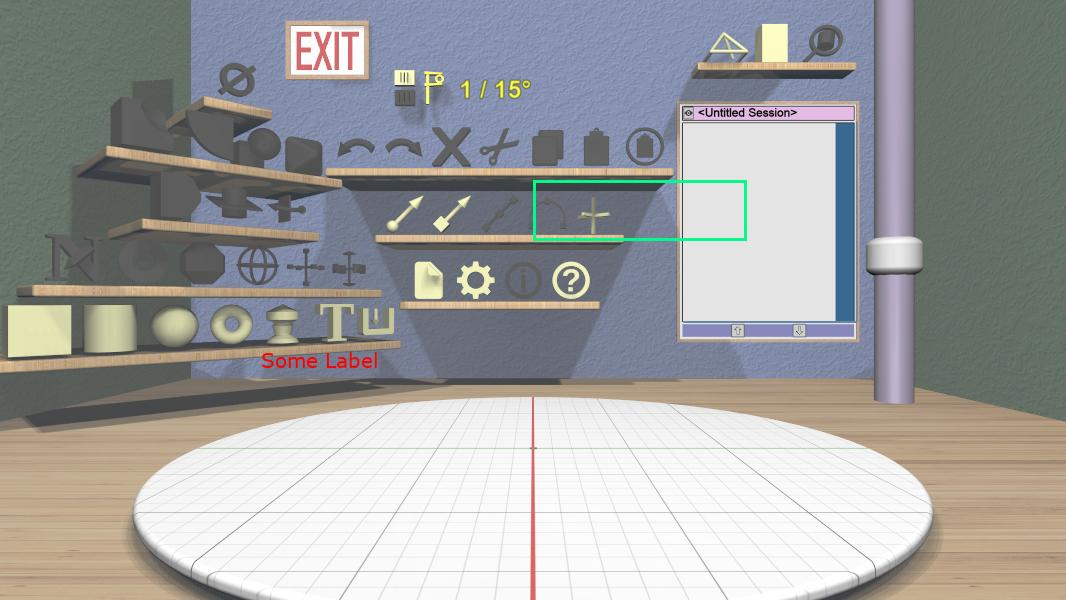
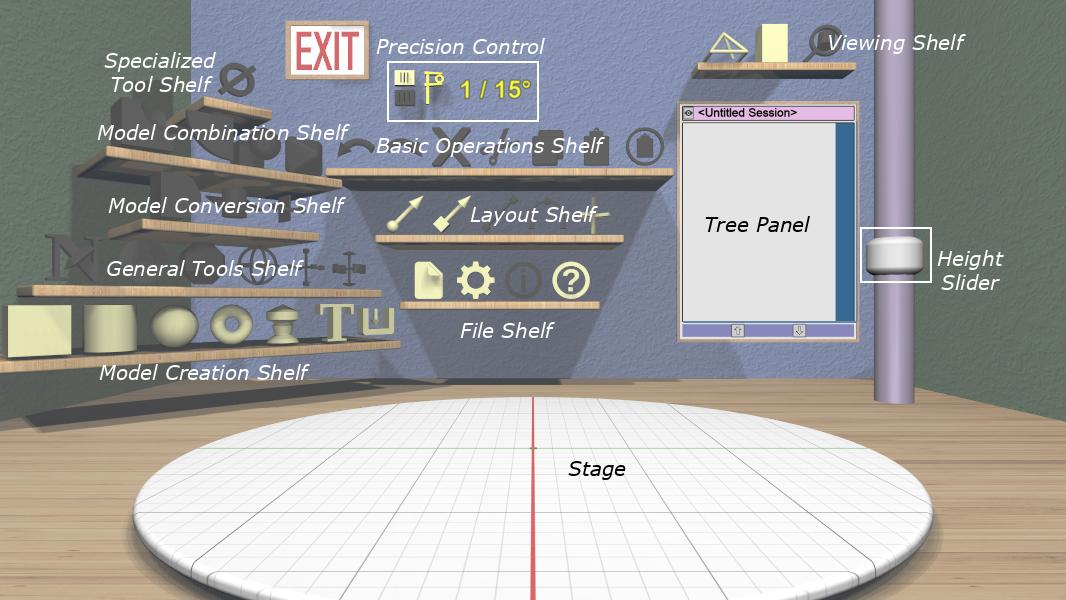
Working annotations for WorkArea. Need to clean some things up.

diff --git a/bin/annotate.py b/bin/annotate.py
@@ -25,6 +25,8 @@ class ImageAnnotator(object):
     self._draw.text(self.ToImageCoords_(x, y),
                     text, fill=self._color, font=self._font,
                     align=align, anchor='mm')
+                    # Draw outline in white.
+                    #stroke_width=1, stroke_fill='#ffffff')
 
   def Save(self, image_file):
     try:

diff --git a/PublicDoc/docs/UserGuide/Overview.rst b/PublicDoc/docs/UserGuide/Overview.rst
@@ -39,7 +39,7 @@ and positions. See the section on [precision][Precision] for details.
 The Work Area
 .............
 
-.. incimage:: /images/WorkAreaAnnotated.jpg 800px center
+.. incimage:: /images/WorkAreaAnnotated.jpg 1024px center
    :caption:  Features of the |appname| work area.
    :block:
 
